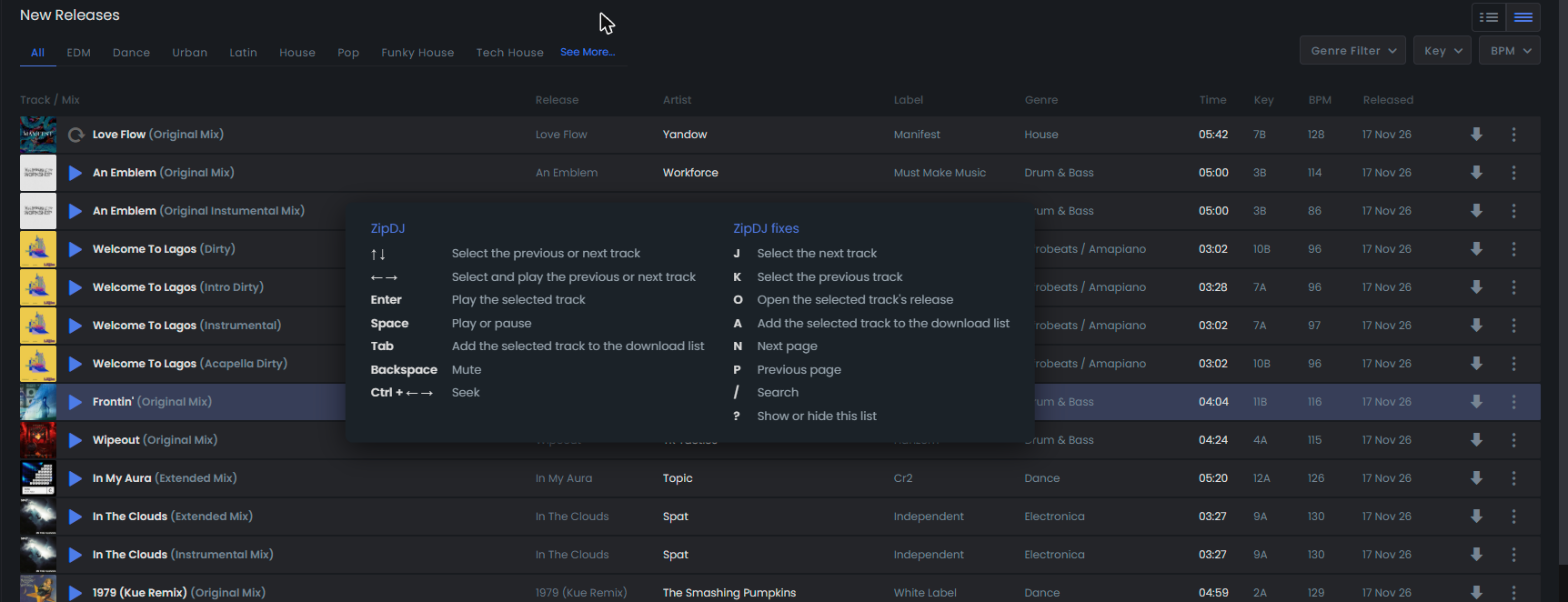
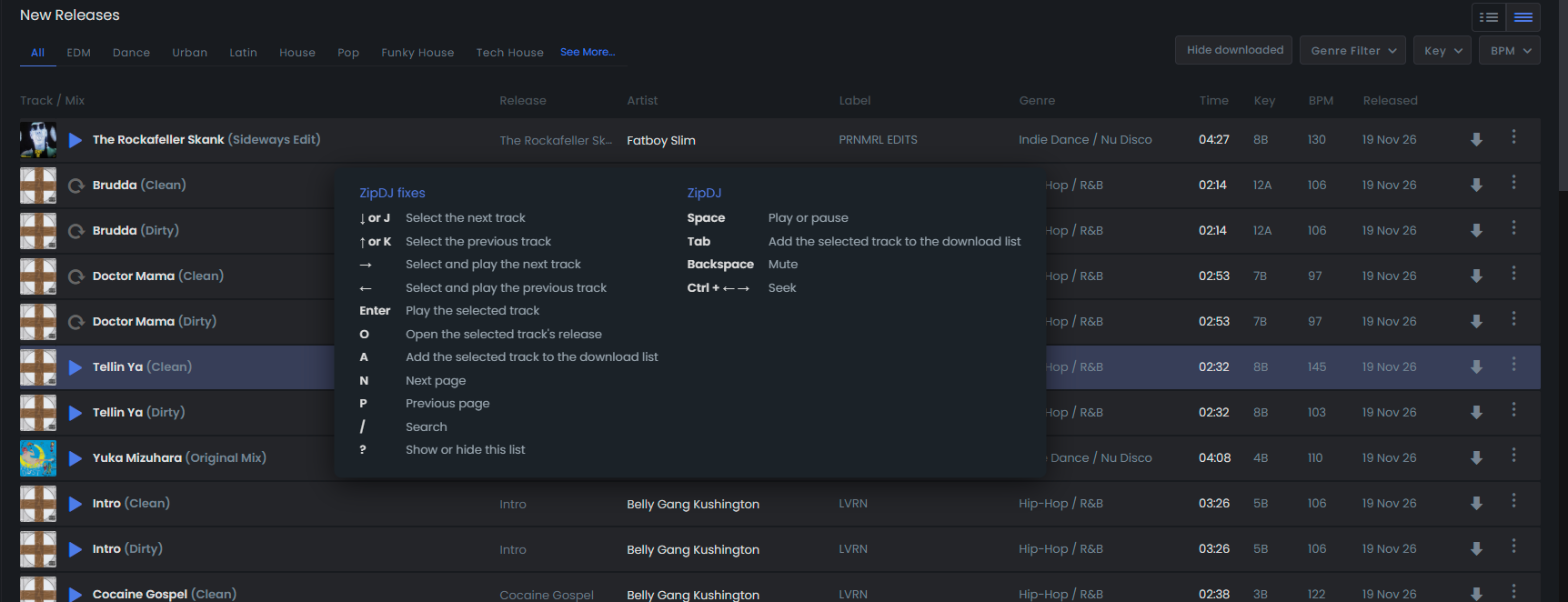
docs: new screenshot of the key list, and what ZipDJ's Space does

diff --git a/README.md b/README.md
@@ -53,9 +53,9 @@ ZipDJ has keyboard shortcuts of its own, listed behind the keyboard icon in its 
 | / | Jump to the search box |
 | ? | Show or hide a list of all keys |
 
-ZipDJ's player keys stay as they are: Space plays or pauses, Tab adds the selected track to the download list, Backspace mutes, Ctrl + ← / → seeks. The keys skip tracks hidden by **Hide downloaded**. The script's keys do nothing while you type in the search box.
+ZipDJ's player keys stay as they are: Space pauses the playing track, or plays the selected one if you have moved on, Tab adds the selected track to the download list, Backspace mutes, Ctrl + ← / → seeks. The keys skip tracks hidden by **Hide downloaded**. The script's keys do nothing while you type in the search box.
 
-![A ZipDJ track list with the selected row tinted blue, and the list that ? shows: ZipDJ's keys on the left, the script's keys on the right](docs/images/keyboard-shortcuts.png)
+![A ZipDJ track list with the selected row tinted blue, and the list that ? shows: the script's keys on the left, ZipDJ's player keys on the right](docs/images/keyboard-shortcuts.png)
 
 ### Download manager
 
